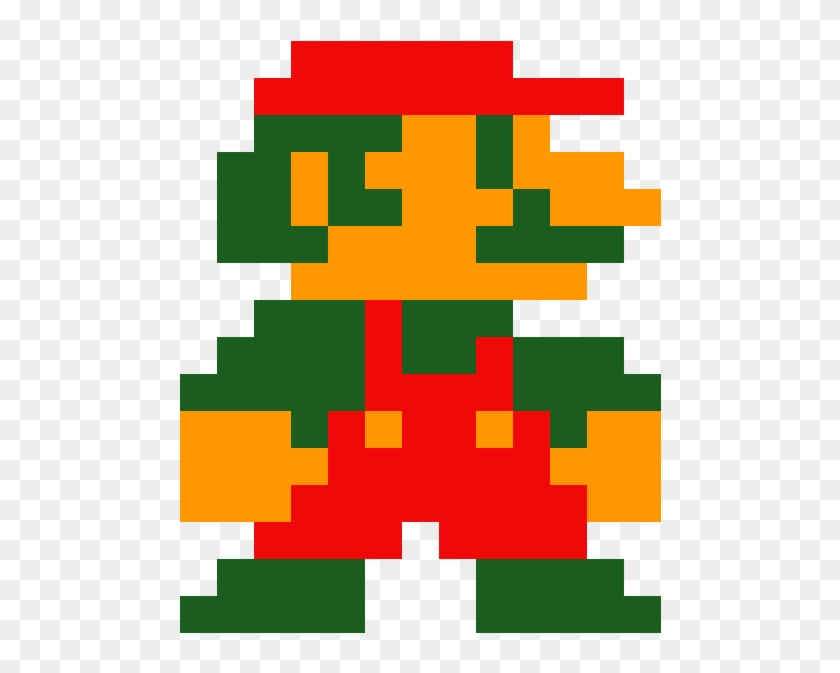
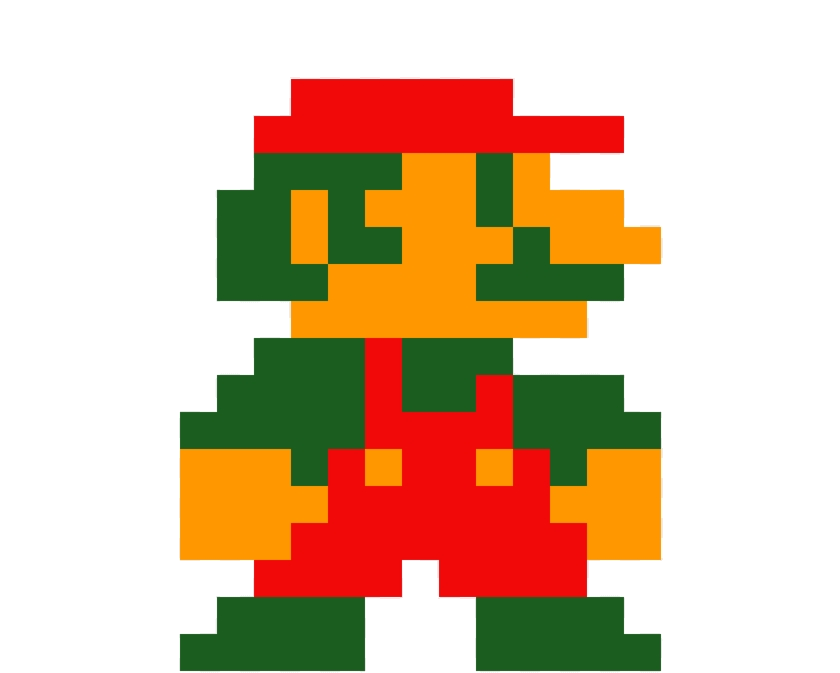
Documention minigame class and fix Mario sprite

Changed region(s): [[0.1857, 0.0312, 0.8048, 0.9985]]

diff --git a/src/game/Minigame.java b/src/game/Minigame.java
@@ -11,9 +11,10 @@ import java.awt.event.KeyListener;
 import java.awt.Image;
 import java.awt.Rectangle;
 
-/**
+/**This class controls the minigame that appears at the end of the quiz (the last question).
+ * It is part of the Modern Era section of the quiz.
  *
- * @author ryansanjose
+ * @author Ryan San Jose
  */
 public class Minigame extends HackathonQuestionsRyan implements KeyListener, ActionListener {
     private static Image sans;
@@ -45,6 +46,10 @@ public class Minigame extends HackathonQuestionsRyan implements KeyListener, Act
     private static Rectangle hitball;
     private static Image victory;
 
+    /**Runs main logic of class.
+     * 
+     * @param g2 {@linkplain java.awt.Graphics2D Graphics2D} object used for painting.
+     */
     public void badtime(Graphics2D g2) {
         sans = Toolkit.getDefaultToolkit().getImage("src\\game\\resources\\sanshaha.png");
         player = Toolkit.getDefaultToolkit().getImage("src\\game\\resources\\Naenaeman.png");
@@ -76,6 +81,7 @@ public class Minigame extends HackathonQuestionsRyan implements KeyListener, Act
         g2.drawImage(player, px, py, 200, 200, this);
         g2.drawImage(beam, sx + 10, sy + 25, beamwidth, 100, this);
         g2.drawImage(ball, bax, bay, 75, 75, this);
+        //Move player's x and y depending on keys being pressed
         if (left) {
             px -= 5;
         }
@@ -88,32 +94,42 @@ public class Minigame extends HackathonQuestionsRyan implements KeyListener, Act
         if (up) {
             py -= 5;
         }
+        //If flag for moving Sans down is true, move him down on screen
         if (sdown) {
             sy += 3;
             if (sy >= 500) {
+                /*If Sans' y reaches >= 500, stop moving, prepare to fire and move up (set booleans)
+                He will move up after he fires*/
                 sdown = false;
                 supnext = true;
                 sfire = true;
             }
         }
+        //If flag for moving Sans up is true, move him up on screen
         if (sup) {
             sy -= 3;
             if (sy <= 50) {
+                /*If Sans' y reaches <= 50, stop moving, prepare to fire and move down (set booleans)
+                He will move down after he fires*/
                 sup = false;
                 sdownnext = true;
                 sfire = true;
 
             }
         }
+        //Controls player firing beam balls
         if (fire) {
+            //Set beam ball picture and hitBox to correct position (where player current is) 
             bax = px;
             bay = py + 15;
             fire = false;
             pew = true;
         }
+        //Shoot out player's beam balls
         if (pew) {
             bax -= 20;
             if (bax <= sx + 200) {
+                //If beam ball hit Sans, end the minigame- go to victory screen
                 if (bay + 75 >= sy && bay <= sy + 200) {
                     sdown = false;
                     sup = false;
@@ -123,15 +139,26 @@ public class Minigame extends HackathonQuestionsRyan implements KeyListener, Act
                     end = true;
                 }
             }
+            //Reset firing process once beam ball if off screen
             if (bax <= 0) {
                 pew = false;
                 bax = -100;
                 bay = -100;
             }
         }
+        //Controls processes when Sans' fires
         if (sfire) {
             beamwidth += 10;
             if (sx + 10 + beamwidth >= px) {
+                /*Ryan coded the player getting hit by the beam using the player's y position
+                and comparing that to the state of Sans (if he is on the bottom or top
+                of the screen. 
+                He did not use the intersect method from Rectangle- which would have been better looking back
+                (we were crunched for time).
+                sdownnext = Sans is currently at the top of the screen
+                supnext = Sans is currently at the top of the screen
+                If Sans is on top, and player on top, and the edge of the beam is >= player x- "kill" the player (quit game)*
+                If Sans is on down, and player on down, and the edge of the beam is >= player x- "kill" the player (quit game)*/
                 if (sdownnext) {
                     if (py > -153 && py < 147) {
                         System.exit(0);
